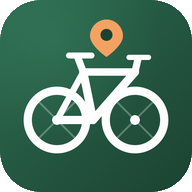
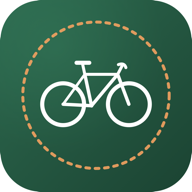
feat: новая иконка — контурный велосипед в пунктирном круговом маршруте
Переработана иконка приложения: аккуратный контурный велосипед
внутри пунктирного оранжевого кругового трека на тёмно-зелёном фоне.
Добавлены все размеры PNG (16–512), maskable-версии, favicon.ico,
apple-touch-icon. Обновлены manifest.json и мета-теги в HTML.

diff --git a/index.html b/index.html
@@ -23,8 +23,25 @@
       content="black-translucent"
     />
     <link rel="manifest" href="manifest.json" />
-    <link rel="apple-touch-icon" href="icons/icon-192.png" />
-    <link rel="icon" href="icons/icon-192.png" />
+    <link
+      rel="apple-touch-icon"
+      sizes="180x180"
+      href="icons/apple-touch-icon.png"
+    />
+    <link rel="icon" type="image/svg+xml" href="icons/icon.svg" />
+    <link
+      rel="icon"
+      type="image/png"
+      sizes="32x32"
+      href="icons/favicon-32x32.png"
+    />
+    <link
+      rel="icon"
+      type="image/png"
+      sizes="16x16"
+      href="icons/favicon-16x16.png"
+    />
+    <link rel="shortcut icon" href="favicon.ico" />
     <title>ВелоТропа</title>
     <link rel="stylesheet" href="css/style.css" />
   </head>

diff --git a/route.html b/route.html
@@ -19,8 +19,25 @@
       content="black-translucent"
     />
     <link rel="manifest" href="manifest.json" />
-    <link rel="apple-touch-icon" href="icons/icon-192.png" />
-    <link rel="icon" href="icons/icon-192.png" />
+    <link
+      rel="apple-touch-icon"
+      sizes="180x180"
+      href="icons/apple-touch-icon.png"
+    />
+    <link rel="icon" type="image/svg+xml" href="icons/icon.svg" />
+    <link
+      rel="icon"
+      type="image/png"
+      sizes="32x32"
+      href="icons/favicon-32x32.png"
+    />
+    <link
+      rel="icon"
+      type="image/png"
+      sizes="16x16"
+      href="icons/favicon-16x16.png"
+    />
+    <link rel="shortcut icon" href="favicon.ico" />
     <title>ВелоТропа — Маршрут</title>
     <link
       rel="stylesheet"
